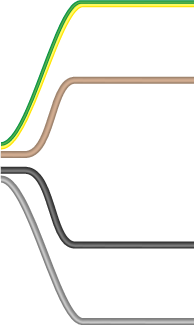
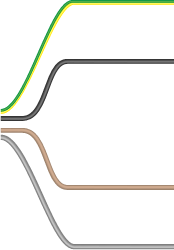
Dimensioni ridotte e posizionamento ok

diff --git a/fmprevent-plugin/prev.css b/fmprevent-plugin/prev.css
@@ -1,22 +1,25 @@
 #fmprevent input[type="text"]{
 	background:white;
-	padding:5px 5px;
+	padding:2px 1px;
 	color:black;
 	width:auto;
 }
 
 #fmprevent #cable-body{
 	position:absolute;
-	top:214px;
+	top:190px;
 	left:390px
 }
 
 #fmprevent input[type="text"], input[type="email"], input[type="number"], input[type="tel"], select{
 	width : auto !important;
+	height:26px !important;
 }
 
 #fmprevent{
-	position:relative;width:1180px;height:450px;
+	position:relative;
+	width:1180px;
+	height:450px;
 }
 
 #fmprevent.fmprevent-3{
@@ -31,59 +34,73 @@
 	height:500px;
 }
 .free-cables{
-	position:absolute;width:195px;
+	position:absolute;
+	width:174px;
 	background-repeat: no-repeat;
 }
 
 .free-cables-r{
-	left:720px;
+	left:690px;
 }
 
 .free-cables-l{
-	left:195px;
+	left:215px;
 }
 
 .free-cables-3{
-	top:140px;height:191px;
+	top:140px;
+	height:132px;
 }
 
 .free-cables-4{
-	top:76px;height:325px;
+	top:81px;
+	height:250px;
 }
 
 .free-cables-5{
-	top:76px;height:325px;
+	top:81px;
+	height:250px;
 }
 
 .conn-r .conn-selector{
 	position:absolute;
 	right:-110px;
-	top:10px;
+	
 }
 
 .conn-l .conn-selector{
 	position:absolute;
 	left:-110px;
-	top:10px;
+	
 }
 
 .conn-r .conn-label{
 	position:absolute;
-	left:-100px;
-	top:30px;
+	left:-110px;
+	top:20px;
 }
 
 .conn-l .conn-label{
 	position:absolute;
-	left:80px;
-	top:30px;
+	left: 50px;
+	top: 20px;
+}
+
+.conn-r .conn-size-selector{
+	position:absolute;
+	left:160px;
+}
+
+.conn-l .conn-size-selector{
+	position:absolute;
+	left:-170px;
 }
 
 .conn{
 	position:absolute;
 	left:-1px;
-	width:77px;
-	height:42px;
+	width:39px;
+	height:21px;
 }
 
 .free-cables-r .cable-sgua{
@@ -110,27 +127,31 @@
 }
 
 .free-cables-r .conn-container{
-	left:195px;
+	left:175px;
 	position:absolute;
 }
 
 .free-cables-l .conn-container{
-	right:270px;
+	right:212px;
 	position:absolute;
 }
 
 
 /*3 conns*/
 .conn-1-of-3 {
-	top:-18px;
+	top:-8px;
 }
 
 .conn-2-of-3{
-position:absolute;top:74px;left:0px
+position:absolute;
+top:56px;
+left:0px
 }
 
 .conn-3-of-3{
-position:absolute;top:166px;left:0px
+position:absolute;
+top:119px;
+left:0px
 }
 
 
@@ -138,40 +159,50 @@ position:absolute;top:166px;left:0px
 
 /*4 conns*/
 .conn-1-of-4 {
-	top:-18px;
+	top:-8px;
 }
 
 .conn-2-of-4{
-position:absolute;top:59px;left:0px
+position:absolute;
+top:51px;
+left:0px
 }
 
 .conn-3-of-4{
-position:absolute;top:223px;left:0px
+position:absolute;
+top:177px;
+left:0px
 }
 
 .conn-4-of-4{
-position:absolute;top:300px;left:0px
+position:absolute;
+top:236px;
+left:0px
 }
 
 /*5 conns*/
 .conn-1-of-5 {
-	top:-18px;
+	top:-8px;
 }
 
 .conn-2-of-5{
-position:absolute;top:59px;left:0px
+position:absolute;
+top:51px;
+left:0px
 }
 
 .conn-3-of-5{
-position:absolute;top:141px;left:0px
+position:absolute;
+top:114px;
+left:0px
 }
 
 .conn-4-of-5{
-position:absolute;top:223px;left:0px
+position:absolute;top:177px;left:0px
 }
 
 .conn-5-of-5{
-position:absolute;top:300px;left:0px
+position:absolute;top:236px;left:0px
 }
 
 #cable-length{
@@ -189,7 +220,9 @@ position:absolute;top:300px;left:0px
 }
 
 #cable-type{
-	right:100px;top:6px;position:absolute;
+	position:absolute;
+	right: 75px;
+	top: 3px;
 }
 
 #orderform{
@@ -206,3 +239,4 @@ margin: 30px;
 #canvas canvas{
 	visibility:hidden;
 }
+
